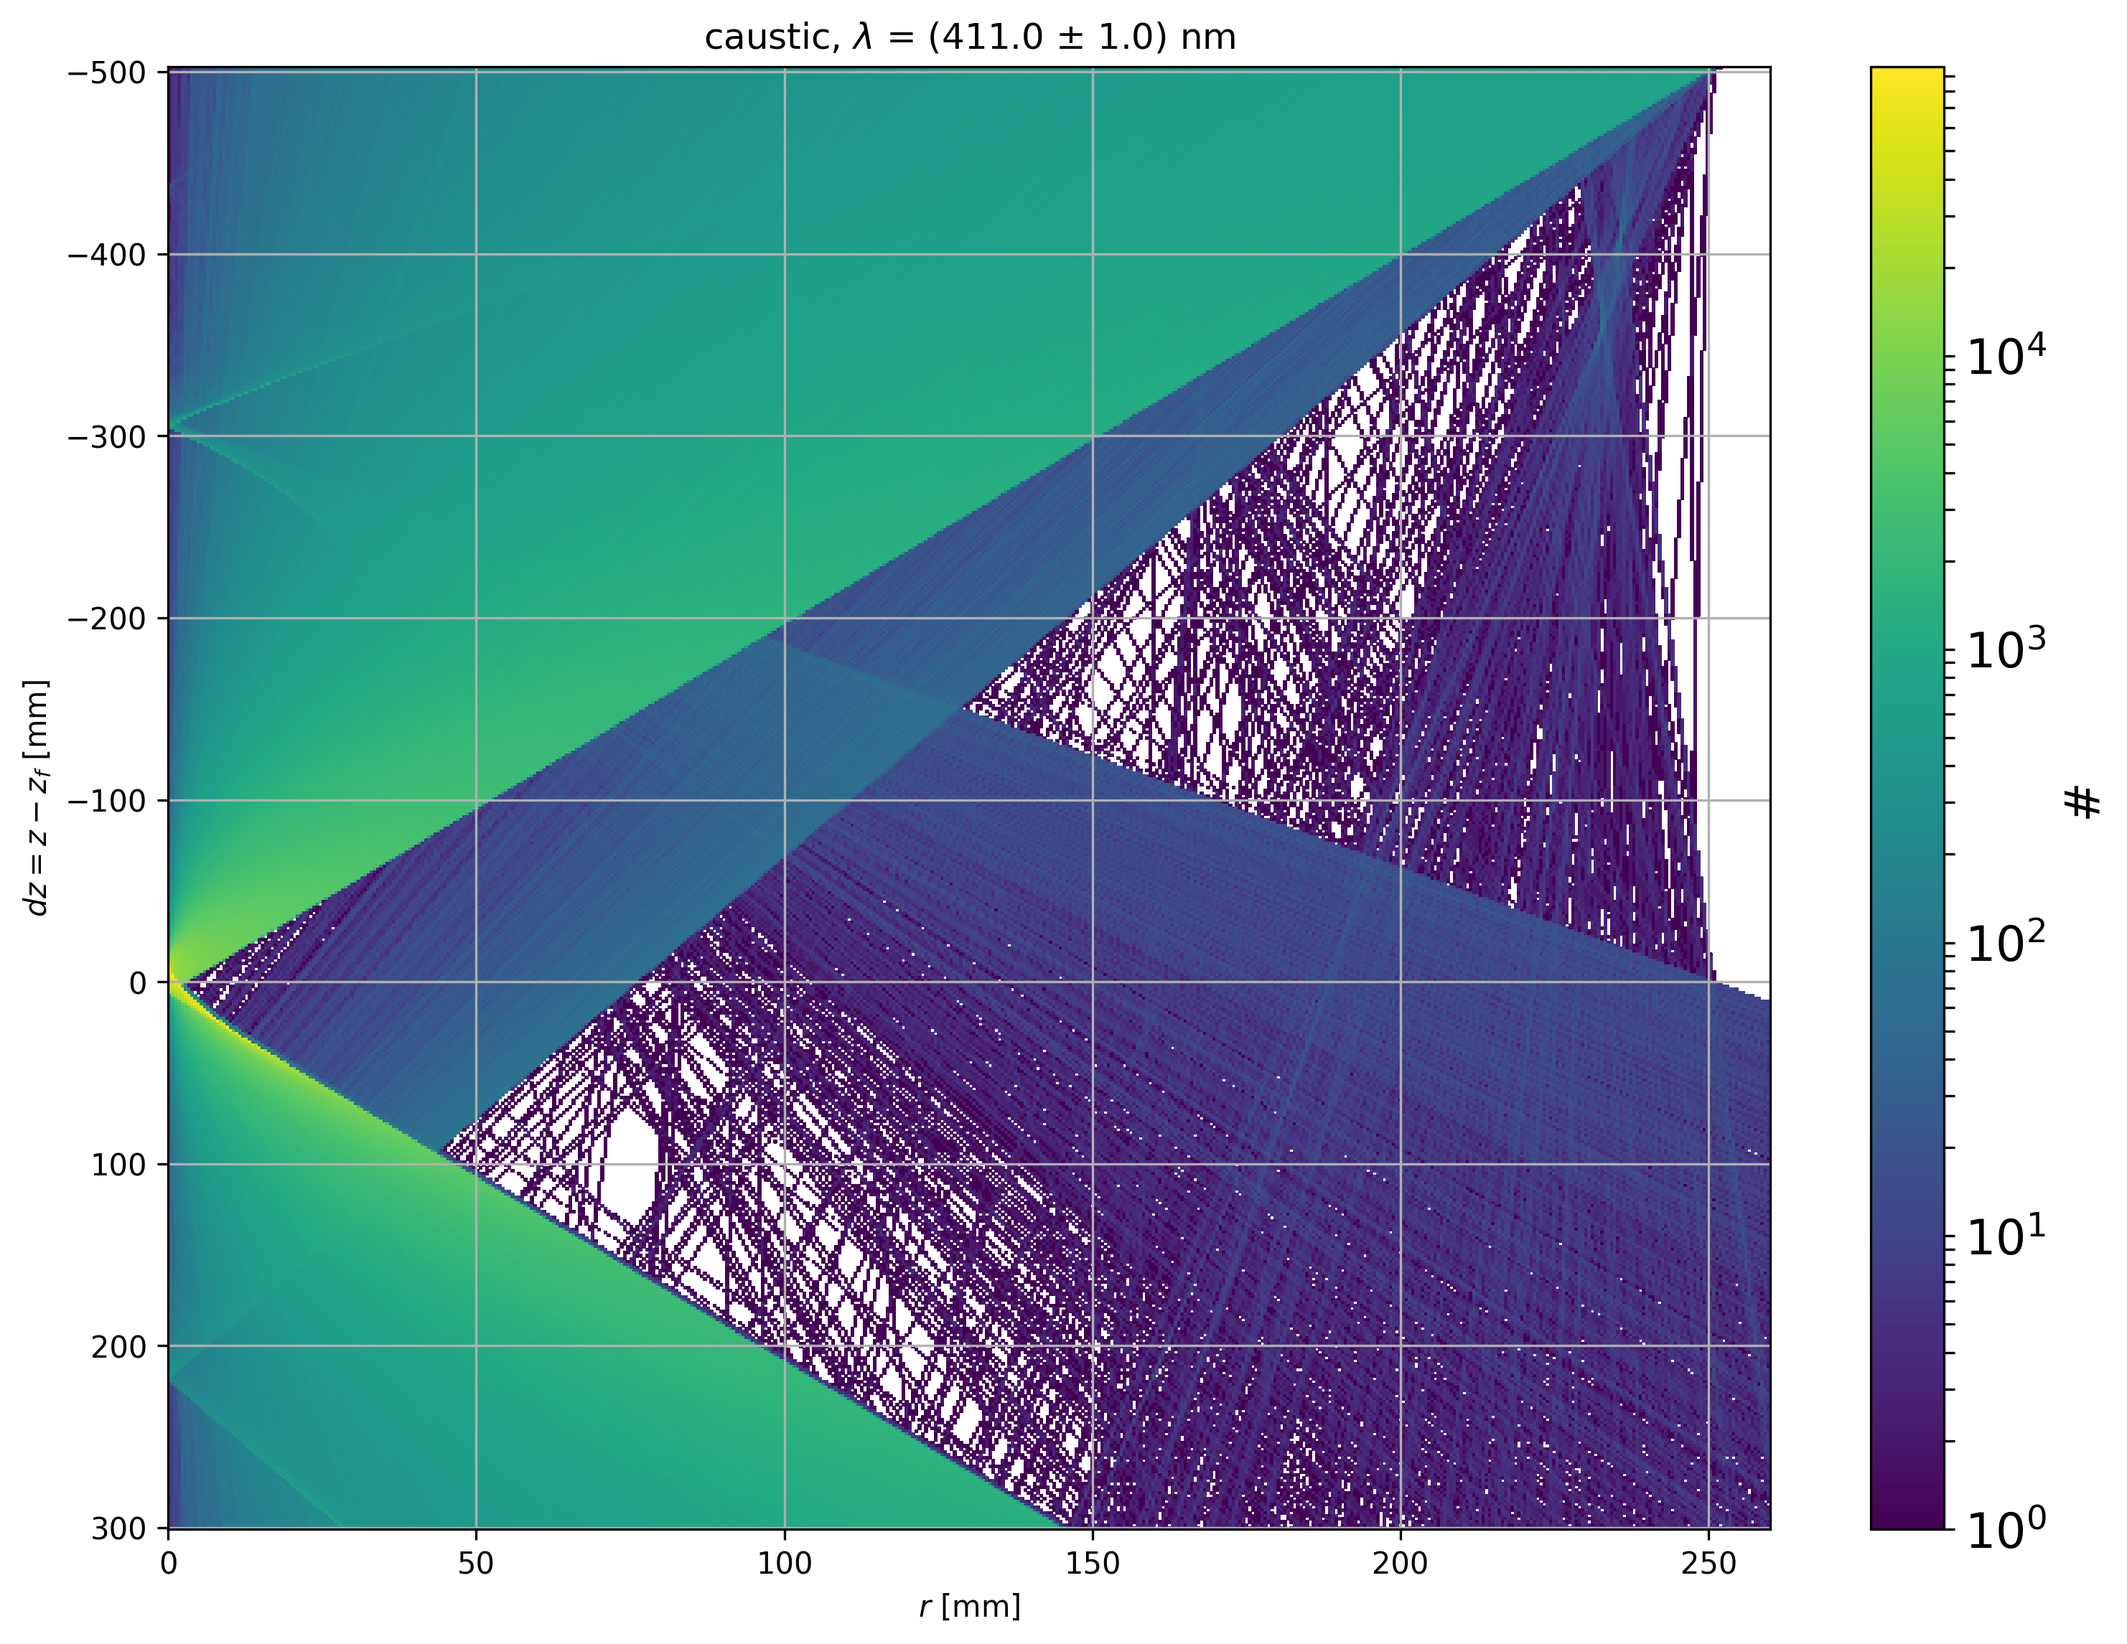
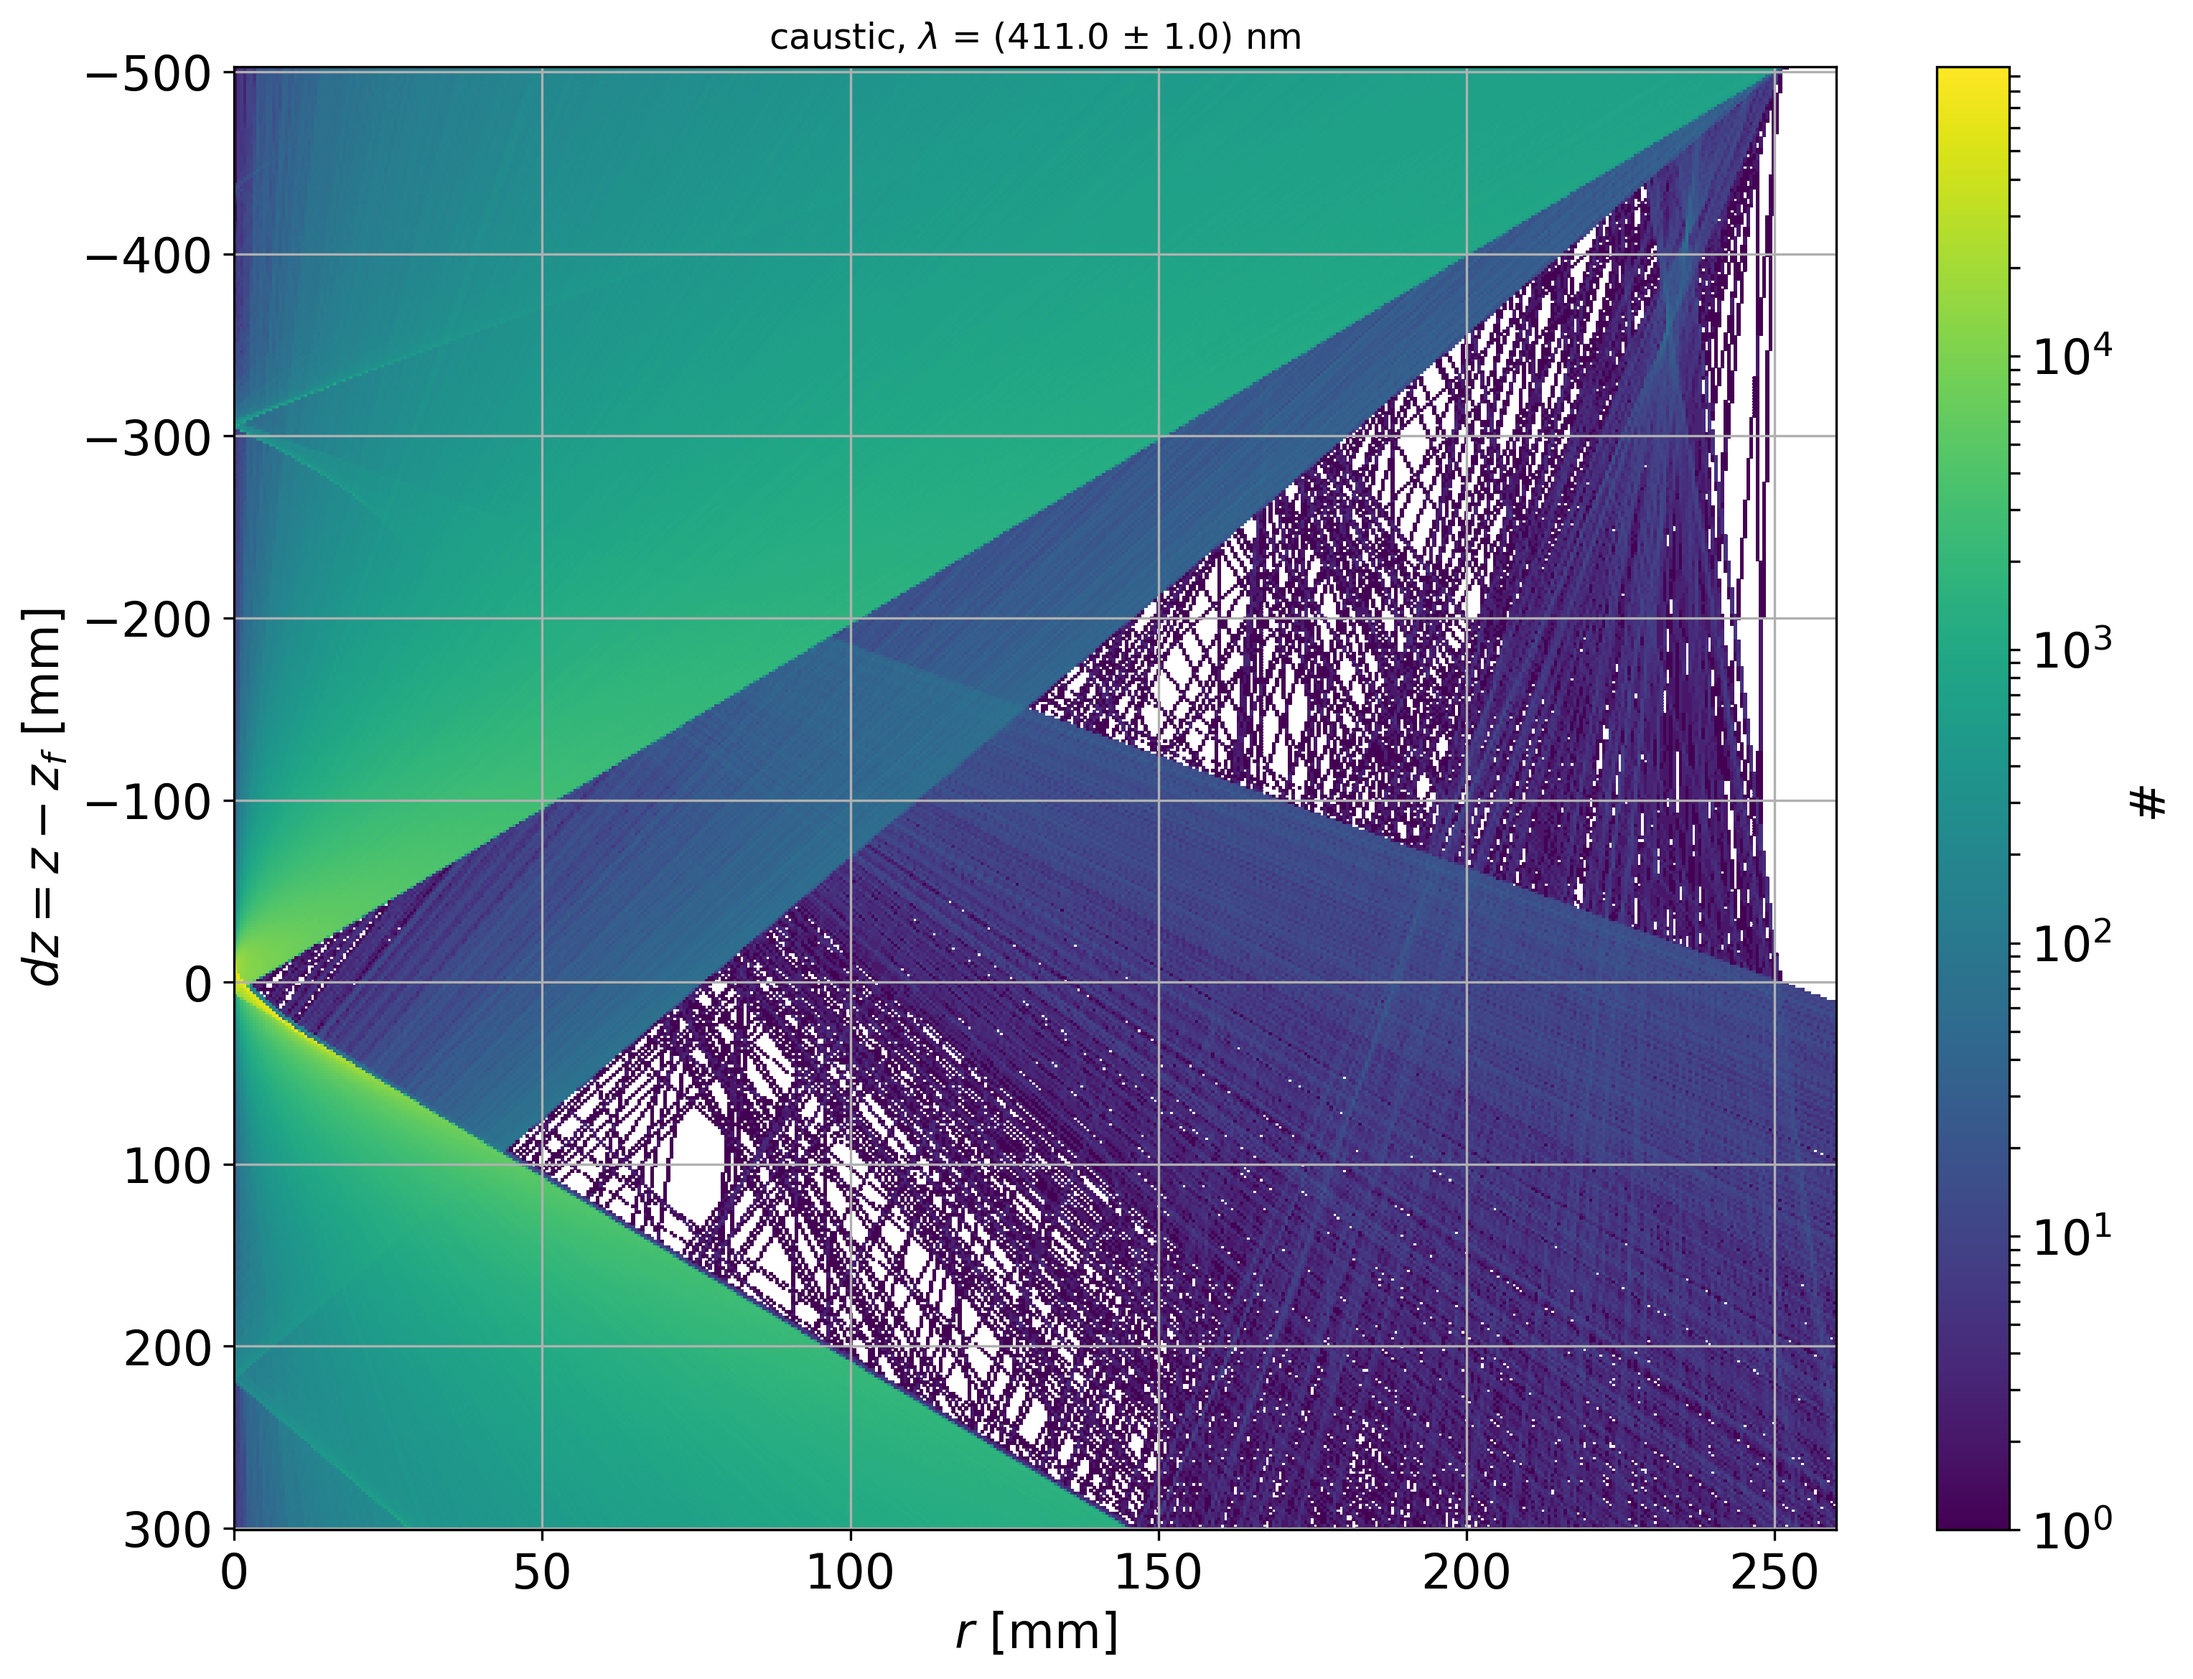
added zoomout plot for focal plane shift

diff --git a/chapters/iceact_simulation.tex b/chapters/iceact_simulation.tex
@@ -59,6 +59,13 @@ All of these functions are normalized, i.e. divided by their own maximum, and th
 	\label{focalplaneshift}
 \end{figure}
 
+\begin{figure}[H]
+	\centering
+	\includegraphics[width=0.8\textwidth]{focalplaneshift/caustic_411nm_zoomout.png}
+	\caption[]{\textbf{.} }
+	\label{focalplaneshift_zoomout}
+\end{figure}
+
 \subsection{Winston Cone Simulation}
 
 \section{Simulation Strategy and Verification}
